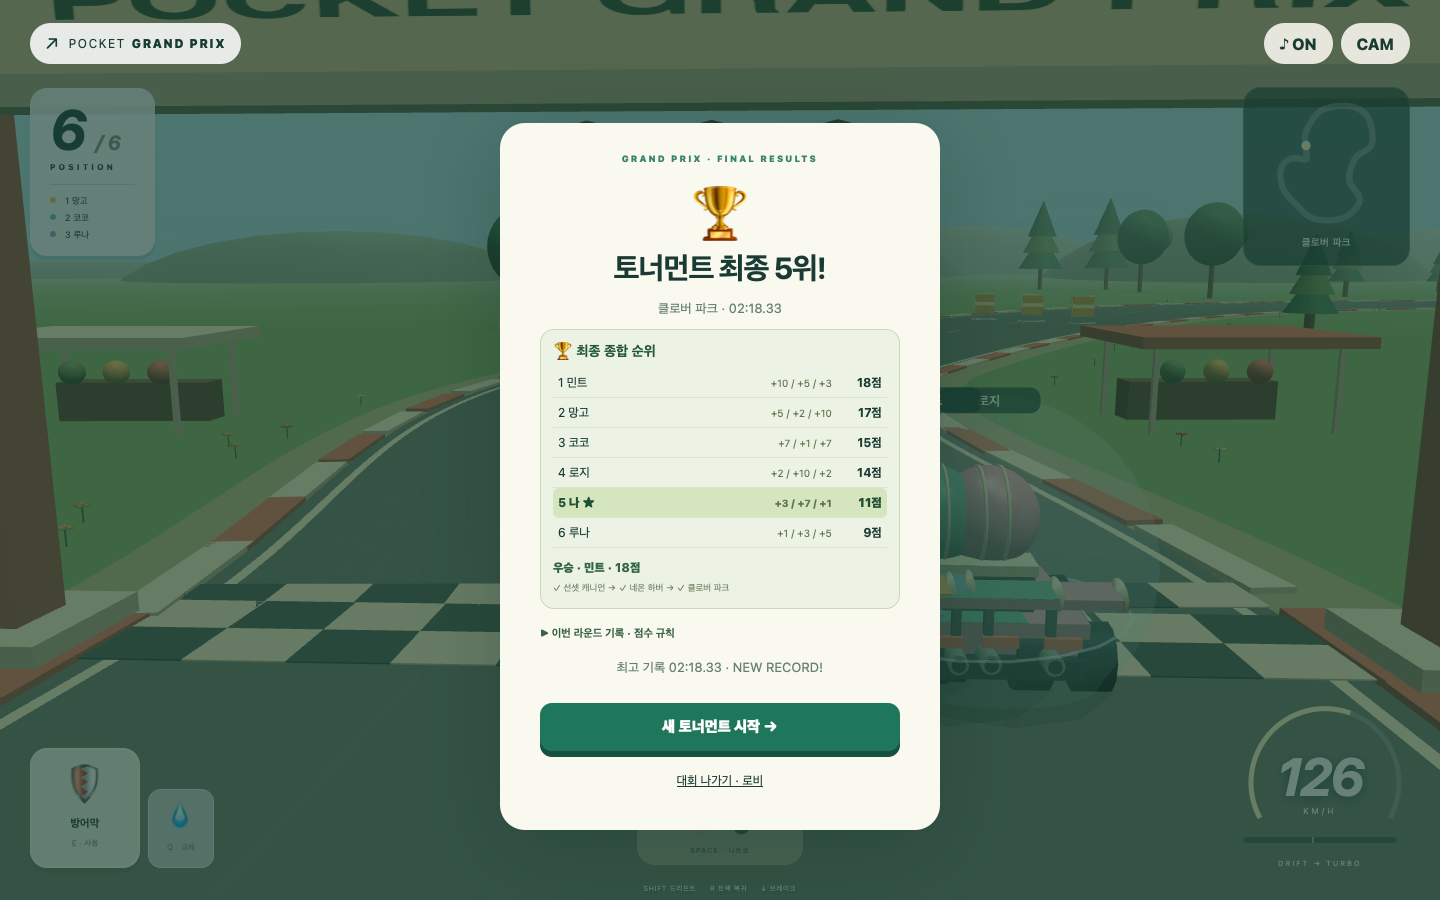
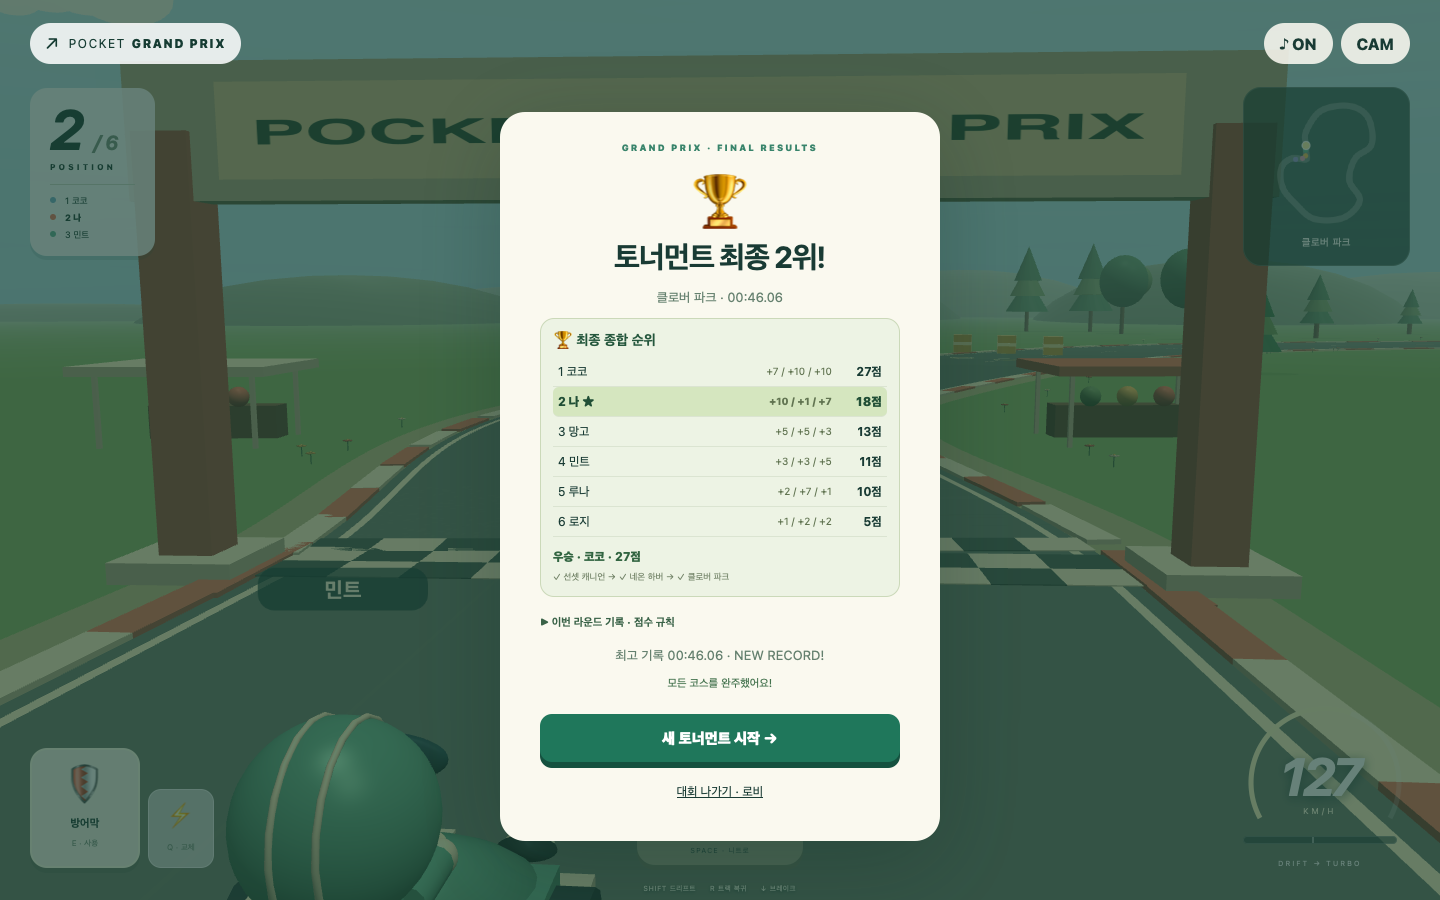
fix: finish each tournament course on the first lap

diff --git a/index.html b/index.html
@@ -48,7 +48,7 @@
       <div class="raceinfo">
         <span id="cupround" class="cup-round">ROUND 1 / 3</span>
         <div>
-          <small>LAP</small><b id="lap">1 <i>/ 3</i></b>
+          <small>LAP</small><b id="lap">1 <i>/ 1</i></b>
         </div>
         <div><small>RACE TIME</small><b id="time">00:00.00</b></div>
       </div>
@@ -141,7 +141,7 @@
             ><input id="assist" title="조작을 안정시켜요. 진행 방향은 직접 정해요." type="checkbox" checked /> 조향 도움</label
           >
         </div>
-        <div class="cup-intro"><b>🏆 3라운드 토너먼트</b><span>세 코스의 점수를 모아 종합 우승에 도전!</span><small>1~6위 · 10 / 7 / 5 / 3 / 2 / 1점</small></div>
+        <div class="cup-intro"><b>🏆 3라운드 토너먼트</b><span>한 코스에 한 바퀴! 완주하면 다음 코스로 이동해요.</span><small>1~6위 · 10 / 7 / 5 / 3 / 2 / 1점</small></div>
         <button id="start" class="start">토너먼트 시작 <span>→</span></button>
         <div class="controls">
           <span><kbd>←</kbd><kbd>→</kbd> 조향</span
@@ -150,7 +150,7 @@
         </div>
         <div class="menu-foot">
           <button id="help">처음이라면? 조작 안내 ↗</button
-          ><span>자동 가속 · 6대 · 3바퀴</span>
+          ><span>자동 가속 · 코스당 1바퀴 · 3코스</span>
         </div>
       </section>
       <div class="circuit-badge">

diff --git a/main.js b/main.js
@@ -290,7 +290,7 @@ function beginRound() {
   }
   audio.start();
   fx.clear();
-  G = createRace(settings);
+  G = createRace({ ...settings, laps: 1 });
   clearInput();
   shownResult = false;
   lastCount = 4;
@@ -448,7 +448,7 @@ function results() {
     }),
   );
   try {
-    const key = `pocket-gp-best-v2-${settings.track}-${settings.mode}-${settings.difficulty}`,
+    const key = `pocket-gp-best-v3-${settings.track}-${settings.mode}-${settings.difficulty}-${G.course.laps}`,
       old = +localStorage.getItem(key) || Infinity,
       best = Math.min(old, finishTime);
     localStorage.setItem(key, best);
@@ -917,7 +917,7 @@ try {
             track: G.course.id,
             rank: G.rank,
             lap: Math.min(
-              3,
+              G.course.laps,
               Math.floor(Math.max(0, G.racers[0].s) / G.course.length) + 1,
             ),
             time: G.time,

diff --git a/VALIDATION.md b/VALIDATION.md
@@ -34,3 +34,11 @@
 - 기존 조향 도움에서 키를 놓으면 도로 방향으로 카트가 회전하는 동작을 회귀 검사로 재현(수정 전 실패). 자동 방향 보정을 제거하고 입력/접지 안정화로 변경. 수정 후 세 코스에서 진행 방향 유지와 정상 이동을 확인.
 - 코어/토너먼트 단위 검사28개 통과. WebKit 3라운드 실제 물리 조향 완주/점수/재시작/초기화/모바일 검사 통과, 오류0.
 - 실제 모바일 브라우저에서 버튼 없이 다음 코스로 자동 이동, 앞 라운드 점수 유지, 자동 이동 멈추기 후7초 이상 결과 유지, 마지막 결과7초 이상 유지 확인. 오류0.
+
+
+## v0.3.2 · 코스마다 한 바퀴 (2026-10-23 KST)
+
+- 출발선을 재통과해도 같은 코스를 반복한다는 신고에 맞춰 토너먼트를 코스당3바퀴에서1바퀴로 변경. 출발 후 한 바퀴 돌아 첫 번째로 재통과하면 라운드 종료.
+- 코어29개 검사 통과. 3코스 실제 물리 조향으로 첫 바퀴에 종료, 기록1개, 끝난 코스의 추가 진행 없음, 공용 코스 정의 불변 확인.
+- WebKit 3코스 전 라운드의 lap 제한1/실제 lapTimes 길이1, 누적 점수/라운드 재시작/새 대회 초기화/모바일 표시 확인. 오류0.
+- HUD와 로비에서 코스당1바퀴 표시. 기존 세 바퀴 기록과 저장 키를 분리.

diff --git a/README.md b/README.md
@@ -1,3 +1,7 @@
+## v0.3.2 · 출발선 재통과 시 다음 코스
+
+토너먼트는 코스마다 한 바퀴입니다. 출발한 뒤 한 바퀴 돌아 출발·결승선을 통과하면 해당 라운드를 끝내고, 6초 뒤 다음 코스로 이동합니다. 같은 코스를 세 바퀴 반복하지 않습니다. 한 바퀴 기록은 기존 세 바퀴 기록과 분리해서 저장합니다.
+
 ## v0.3.1 · 자동 코스 진행과 조향 안정화
 
 1·2라운드 완주 후 6초 뒤 다음 코스로 자동 이동합니다. 자동 이동을 멈추거나 상세 기록을 열면 결과를 계속 볼 수 있고, 출발 버튼으로 바로 이동할 수도 있습니다. 최종 결과는 자동으로 닫히지 않습니다. 조향 도움은 입력과 접지력을 안정시키며 도로 방향으로 카트를 자동으로 되돌리지 않습니다.
